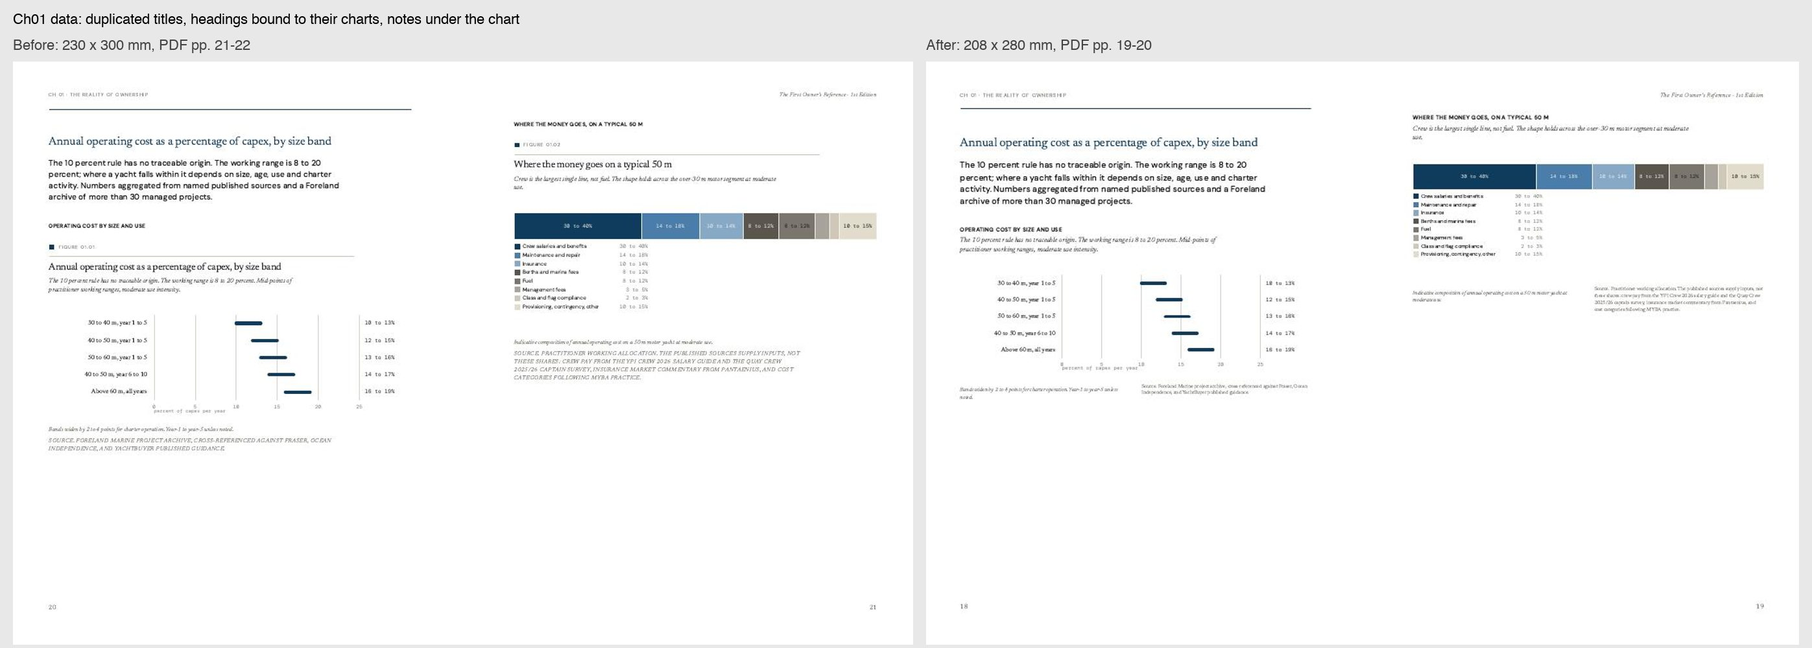
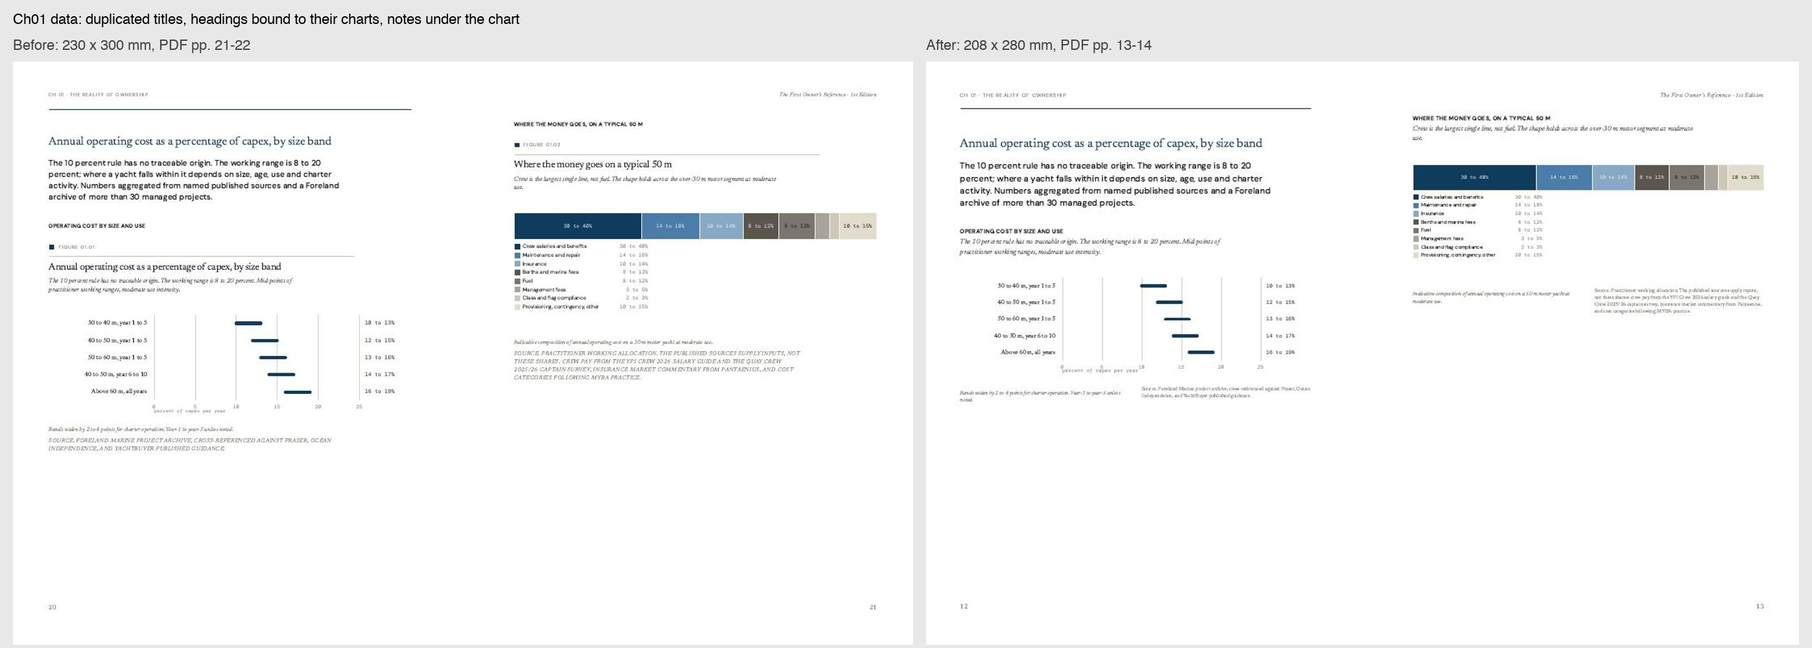
Print: front matter recomposed at true scale, one page each; thirteen pages to seven; registers and comparisons updated

diff --git a/app/print/print.css b/app/print/print.css
@@ -3431,3 +3431,95 @@ body {
   color: var(--colour-soft);
   margin: 1mm 0 6mm 0;
 }
+
+/* ===========================================================
+   FRONT MATTER at 208 x 280mm (14 November 2026)
+   These pages were sized while the book printed at 70 per cent, so every
+   size here read about a third smaller on paper than it was set. At true
+   scale the title page, imprint, letter, contents and contributors each
+   overflowed onto a second page. Reset to the body type system so each
+   is one composed page.
+   =========================================================== */
+
+/* Title page */
+.title-page { padding-top: 12mm; }
+.title-page__edition { font-size: 7pt; margin-bottom: 10mm; }
+.title-page__title { font-size: 40pt; line-height: 1.04; margin-bottom: 7mm; }
+.title-page__strap { font-size: 12pt; line-height: 1.45; margin-bottom: 12mm; max-width: 130mm; }
+.title-page__frame { margin-bottom: 10mm; padding-top: 3mm; }
+.title-page__frame-body { font-size: 9.25pt; line-height: 13.25pt; max-width: 130mm; }
+.title-page__foot { padding-top: 4mm; }
+.title-page__foot-label { font-size: 6.5pt; margin-bottom: 1mm; }
+.title-page__foot-value { font-size: 9pt; }
+.title-page__sections { margin-top: 10mm; padding-top: 5mm; }
+.title-page__sections-list li { margin-bottom: 2.5mm; grid-template-columns: 8mm 1fr; }
+.title-page__sections-num { font-size: 7.5pt; }
+.title-page__sections-title { font-size: 9pt; line-height: 1.3; }
+
+/* Imprint */
+.imprint { padding-top: 0; font-size: 7.5pt; line-height: 10.5pt; }
+.imprint__title { font-size: 20pt; line-height: 1.1; margin-bottom: 6mm; }
+.imprint__cols { column-gap: 5mm; margin-bottom: 0; }
+.imprint__masthead { margin-top: 7mm; padding-top: 4mm; }
+.imprint__masthead-block { margin-bottom: 4mm; }
+.imprint__masthead-label { font-size: 6.5pt; margin-bottom: 1mm; }
+.imprint__masthead-name { font-size: 8.5pt; line-height: 1.3; margin-bottom: 0.5mm; }
+.imprint__masthead-role { font-size: 7pt; line-height: 1.3; margin-bottom: 1mm; }
+.imprint__note { margin-top: 6mm; padding-top: 4mm; }
+.imprint__note-label { font-size: 9pt; line-height: 12pt; margin-bottom: 2mm; }
+.imprint__note-cols { column-gap: 5mm; font-size: 7.5pt; line-height: 10.5pt; }
+
+/* Editors' letter */
+.editors-letter { padding-top: 0; }
+.editors-letter__title { font-size: 26pt; line-height: 1.08; margin-bottom: 7mm; text-wrap: balance; }
+.editors-letter__body { column-gap: 7mm; font-size: 9.25pt; line-height: 13.25pt; margin-bottom: 4mm; }
+.editors-letter__body p { text-indent: 4mm; }
+.editors-letter__body p:first-child {
+  column-span: all;
+  font-size: 12pt;
+  line-height: 16.5pt;
+  margin-bottom: 5mm;
+  max-width: 140mm;
+}
+.editors-letter__signature { margin-top: 4mm; font-size: 9.25pt; }
+.editors-letter__keys { margin-top: 7mm; padding-top: 4mm; }
+.editors-letter__keys-label { font-size: 9pt; line-height: 12pt; margin-bottom: 3mm; }
+.editors-letter__keys-list { row-gap: 4mm; column-gap: 7mm; }
+.editors-letter__keys-list li { grid-template-columns: 7mm 1fr; gap: 2mm; }
+.editors-letter__keys-list li span { font-size: 11pt; }
+.editors-letter__keys-list li p { font-size: 8pt; line-height: 11pt; }
+
+/* Contents: one page, on whichever side it falls. */
+.contents-page { padding-top: 0; page-break-before: always; break-before: page; }
+.contents-page__title { font-size: 26pt; margin-bottom: 1mm; }
+.contents-list__item { grid-template-columns: 13mm 1fr 10mm; padding: 2.2mm 0; }
+.contents-list__num { font-size: 7.5pt; padding-top: 1pt; }
+.contents-list__title { font-size: 10.5pt; line-height: 1.2; }
+.contents-list__standfirst { font-size: 7.5pt; line-height: 1.35; }
+.contents-list__folio { font-size: 8pt; padding-top: 1pt; }
+
+/* Contributors */
+.contributors-page { padding-top: 0; }
+.contributors-page__title { font-size: 26pt; margin-bottom: 1mm; }
+.contributors-page__strap { font-size: 9.25pt; line-height: 13.25pt; margin-bottom: 7mm; max-width: 140mm; }
+.contributors-grid { gap: 5mm 10mm; }
+.contributor-entry { padding-top: 2.5mm; }
+.contributor-entry__chapter { font-size: 6.5pt; margin-bottom: 1mm; }
+.contributor-entry__name { font-size: 11pt; margin-bottom: 0.5mm; }
+.contributor-entry__role { font-size: 7.5pt; line-height: 1.35; }
+.contributors-page__note { margin-top: 6mm; padding-top: 3mm; font-size: 7.5pt; line-height: 1.45; }
+/* Letter keys in one row of four, so the letter and its reading notes
+   fit one page; contents rows tightened to hold all thirteen entries. */
+.editors-letter__keys-list { grid-template-columns: repeat(4, 1fr); column-gap: 5mm; }
+.editors-letter__keys-list li { grid-template-columns: 1fr; gap: 1mm; }
+.editors-letter__title { margin-bottom: 5mm; }
+.contents-list__item { padding: 1.5mm 0; }
+.contents-list__standfirst { line-height: 1.3; }
+.editors-letter__body { column-count: 3; column-gap: 6mm; column-fill: balance; }
+.editors-letter__body p { hyphens: auto; -webkit-hyphens: auto; text-align: left; }
+.editors-letter__body p { font-size: 9.25pt; line-height: 13.25pt; }
+.editors-letter__body p:first-child { font-size: 12pt; line-height: 16.5pt; }
+.editors-letter__body { column-count: 2; column-gap: 7mm; }
+.editors-letter__body p { text-align: justify; }
+.editors-letter__body p { margin: 0; }
+.editors-letter__body p:first-child { margin-bottom: 5mm; }

diff --git a/print/revision-2/change-register.md b/print/revision-2/change-register.md
@@ -1,6 +1,6 @@
 # Change register, second layout revision
 
-Against the design agent brief of 14 November 2026. "Before" pages are PDF pages of the 208-page proof the brief was written against (230 × 300 mm, commit c9d8191, cover = p. 1). "After" pages are PDF pages of the revised proof (208 × 280 mm, 185 pages with cover), `print/1st-edition/firstownersreference-1st-edition-proof.pdf`. Representative spreads are in `comparisons/`.
+Against the design agent brief of 14 November 2026. "Before" pages are PDF pages of the 208-page proof the brief was written against (230 × 300 mm, commit c9d8191, cover = p. 1). "After" pages are PDF pages of the revised proof (208 × 280 mm, 181 pages with cover), `print/1st-edition/firstownersreference-1st-edition-proof.pdf`. Representative spreads are in `comparisons/`.
 
 No copy, figure, chart value, table, reference or disclosure was changed in this pass. The last column says whether the change needs editorial approval.
 
@@ -10,7 +10,7 @@ No copy, figure, chart value, table, reference or disclosure was changed in this
 |---|---|---|---|---|
 | Whole book | Trim 230 × 300 mm in the brief; 208 × 280 mm confirmed by Jack on 14 November | Built at 208 × 280 mm, 3 mm bleed, type area 172 × 238 mm, inner margin 22 mm, outer 14 mm | Whole book | Decided |
 | Whole book | Proofs from May to November printed at about 70 per cent: one unbreakable URL in the sources was wider than the page and Chrome shrank every page to fit | Sources cited by domain only; the build now refuses to print if anything is wider than the type area | Whole book | Decided |
-| Whole book | 208 pp | 184-page block, 185 with cover; the press block is 184 pages, 23 sections of eight, with no padding. Every page of content retained, including all data sections and the index | Whole book | None |
+| Whole book | 208 pp | 180-page block, 181 with cover; the press block is padded to 184 pages, 23 sections of eight, with four blank pages at the end. Every page of content retained, including all data sections and the index | Whole book | None |
 
 ## Composition and rhythm (brief section 3)
 
@@ -21,8 +21,8 @@ No copy, figure, chart value, table, reference or disclosure was changed in this
 | Essays | Small photographs dropped between paragraphs at a fixed cadence | One picture across both columns per essay, placed before a crosshead and sized by the build to the space left on its page | All essays | None |
 | 25–26, 39–40, 67–68, 113–114 | A picture at the foot of each case jumped onto a page of its own and forced a blank page before the next opener | No picture after the case. The chapter card closes the chapter, followed by a blank page only where the next opener needs it | End of each chapter | None |
 | Chapter ends | Two mostly empty close pages per chapter (a picture page and an at-a-glance page) | One card at the foot of the case: sections in the chapter, about the cases, read next. The copy is unchanged | End of each chapter | None |
-| 21–24 | Data pages each carried one chart and were otherwise empty | Charts held to 92 mm, method notes set in two columns under the chart, chart headings bound to their charts. Two charts now share a page where they fit | 19–22 | None |
-| 23 | A four-row table split, leaving one row on the next page | Tables of eight rows or fewer are kept whole; longer tables break between rows with the head repeated | 21 | None |
+| 21–24 | Data pages each carried one chart and were otherwise empty | Charts held to 92 mm, method notes set in two columns under the chart, chart headings bound to their charts. Two charts now share a page where they fit | 13–16 | None |
+| 23 | A four-row table split, leaving one row on the next page | Tables of eight rows or fewer are kept whole; longer tables break between rows with the head repeated | 15 | None |
 
 ## Typography (brief section 4)
 
@@ -32,9 +32,9 @@ No copy, figure, chart value, table, reference or disclosure was changed in this
 | All running text | Loose justification and hyphen ladders in narrow columns | `text-wrap: pretty`, hyphenation no closer than three letters from either end of a seven-letter word, no more than two hyphens in a row, a small negative word-space allowance | All | None |
 | All | Paragraph indents and spacing differed between essays, cases and interviews | 4 mm indent, no space between paragraphs, flush after a heading or pull quote, in every family | All | None |
 | All | Crossheads in 19 pt serif with 18 pt above | DM Sans 8 pt bold capitals, a full line above and a third of a line below, kept with the next line | All | None |
-| 26, 102 (case openers) | Case title sat on the marine rule; "The spec change in month / 18." | 9 mm of air under the rule on every case and interview; balanced title lines | 23, 89 | None |
-| 26 | Case facts set as spaced capital labels over values | One centred run-in line, labels in bold | 23 and all cases | None |
-| Interviews | Questions in the same face as the answers | Questions in DM Sans 9 pt semi-bold, marine; answers at body size | 75 and all interviews | None |
+| 26, 102 (case openers) | Case title sat on the marine rule; "The spec change in month / 18." | 9 mm of air under the rule on every case and interview; balanced title lines | 17, 83 | None |
+| 26 | Case facts set as spaced capital labels over values | One centred run-in line, labels in bold | 17 and all cases | None |
+| Interviews | Questions in the same face as the answers | Questions in DM Sans 9 pt semi-bold, marine; answers at body size | 69 and all interviews | None |
 | Pull quotes | Different sizes in essays and cases | One treatment: Newsreader italic 15 / 19 pt, 1.5 pt rule | All | None |
 | Captions and sources | Source lines in 6.8 pt italic capitals | 7 pt roman in sentence case; captions 7.5 pt | All | None |
 | Throughout | Eyebrow labels above headings: "Chapter 05", "Guest opinion", "Note", "Table 01.02", "Figure 01.01", "A — Reference" and others | Removed. Where the label was the page's real name it became the heading (Contents, Contributors) | All | Decided |
@@ -43,17 +43,17 @@ No copy, figure, chart value, table, reference or disclosure was changed in this
 
 | Before | Issue | Adjustment | After | Approval |
 |---|---|---|---|---|
-| 21 | Spread title and the chart title printed one above the other, word for word | Where a chart's title or standfirst repeats the spread title, the spread standfirst or the crosshead above it, the chart's copy is suppressed in print. The text still prints once | 19 | None |
-| 22 | Crosshead "Where the money goes, on a typical 50 m" and chart title "Where the money goes on a typical 50 m" | Same rule, comparing words and ignoring punctuation | 19 | None |
+| 21 | Spread title and the chart title printed one above the other, word for word | Where a chart's title or standfirst repeats the spread title, the spread standfirst or the crosshead above it, the chart's copy is suppressed in print. The text still prints once | 13 | None |
+| 22 | Crosshead "Where the money goes, on a typical 50 m" and chart title "Where the money goes on a typical 50 m" | Same rule, comparing words and ignoring punctuation | 13 | None |
 | All charts | Axis and value labels as small as 6.4 pt (10 units on a 760-unit chart printed at 172 mm) | Labels below 11 units raised to 11 (7 pt) in print. The web charts are unchanged | All | None |
-| 23 | Legend, notes and source in one long italic block under the depreciation chart | Notes and source in two columns under the chart, source in roman | 21 | None |
+| 23 | Legend, notes and source in one long italic block under the depreciation chart | Notes and source in two columns under the chart, source in roman | 15 | None |
 | All | Tailwind spacing from the web frame (6 mm between title, chart and notes) | 3 mm in print | All | None |
 
 ## Chapter architecture (brief section 6)
 
 | Before | Issue | Adjustment | After | Approval |
 |---|---|---|---|---|
-| 44 | Chapter 03 opened out of sequence with the other chapters | Every opener now falls on a left-hand page with the essay opening on the facing right-hand page; the build verifies parity and inserts a blank page where needed (six in the book: before ch01, ch02, ch03, ch05, ch06 and ch09) | 15, 27, 39, 53, 67, 93, 113, 137, 155 | None |
+| 44 | Chapter 03 opened out of sequence with the other chapters | Every opener now falls on a left-hand page with the essay opening on the facing right-hand page; the build verifies parity and inserts a blank page where needed (six in the book: before ch02, ch03, ch05, ch06, ch08 and ch09) | 9, 21, 33, 47, 61, 87, 107, 133, 151 | None |
 | Openers | "Chapter 05" label above the 05 numeral | Removed; numeral, title and standfirst unchanged | All openers | Decided |
 | Build | Page numbering never settled: picture fitting and opener spacers kept moving each other | Pictures are fitted on the first three passes and then held; the chapter spacers and contents folios now settle by pass 4 (a few foot-picture heights still adjust by a millimetre or two after that, which moves no page) | — | None |
 
@@ -61,10 +61,11 @@ No copy, figure, chart value, table, reference or disclosure was changed in this
 
 | Before | Issue | Adjustment | After | Approval |
 |---|---|---|---|---|
-| 10 | "Contents" label over the heading "Nine chapters." | Heading is "Contents"; "Nine chapters." follows as a subtitle | 10 | Decided |
-| 12 | "Contributors" label over "Voluntary, named, and disclosed." | Heading is "Contributors"; the line follows as a subtitle | 12 | Decided |
-| 4, 8, 6 | Eyebrows "In this edition", "From the editors", "Imprint & Masthead", "The publisher's frame" | Removed | 4–8 | Decided |
-| Contents | Folios | Generated from the printed page map on every build | 10–11 | None |
+| 2–14 | Front matter sized while the book printed at 70 per cent: at true scale the title page, imprint, letter, contents and contributors each ran onto a second page, and the letter was set at 14.5 pt with a 19 pt opening | Reset to the body type system and recomposed so each is one page: half-title, frontispiece and title page, imprint and editors' letter, contents and contributors. Letter body 9.25 pt in two columns, reading notes in one row of four. Thirteen pages became seven | 2–8 | None |
+| 10 | "Contents" label over the heading "Nine chapters." | Heading is "Contents"; "Nine chapters." follows as a subtitle | 7 | Decided |
+| 12 | "Contributors" label over "Voluntary, named, and disclosed." | Heading is "Contributors"; the line follows as a subtitle | 8 | Decided |
+| 4, 8, 6 | Eyebrows "In this edition", "From the editors", "Imprint & Masthead", "The publisher's frame" | Removed | 4–6 | Decided |
+| Contents | Folios | Generated from the printed page map on every build; checked against the printed openers | 7 | None |
 
 ## Photography framework (brief section 8)
 

diff --git a/print/revision-2/exceptions-register.md b/print/revision-2/exceptions-register.md
@@ -4,13 +4,13 @@ Problems found during the layout pass that cannot be resolved without changing a
 
 | No. | Page | Issue | Options | Decision |
 |---|---|---|---|---|
-| E1 | 19–21, 32–35, 47–49, 60–62, 104–109, 128–133, 148–150 | **Tables dropped in print where a chart of the same data follows.** A rule from August ("one form per dataset") prints only the chart in thirteen places: ch01 (operating cost by size; where the money goes; depreciation), ch02 (wealth creation; order book; brokerage H1 2026), ch03 (who the buyer is; two commission scales), ch04 (VAT rates), ch06 (refit cost per metre), ch07 (captain pay), ch08 (operating cost 50 m; EU ETS exposure). Under the brief's content lock this is a removal of approved material. Where a table holds values or notes the chart does not show, the print loses them. | (a) Keep the rule, after an editor confirms each chart carries every value in its table. (b) Print table and chart together, about 6–8 pages. (c) Decide per chapter. | |
-| E2 | 47 (53) | **Ch03 data: the note repeats the introduction.** The boxed note under "Who the buyer is, and who advises them" restates the spread's standfirst nearly word for word ("Many first-time buyers reach this market through a family office…"). Layout cannot resolve it without cutting copy. | Cut the note, or rewrite one of the two. | |
-| E3 | 19–20 (22) | **Stacked cost-allocation bar for a 50 m yacht.** Each segment is a percentage range (crew 30 to 40, maintenance 14 to 18, and so on), drawn as a single 100 per cent bar. The ranges sum to 82–133 per cent, so the bar cannot show them truthfully; the segment widths are a hidden choice of midpoints. | Redraw as range bars (one row per cost line, the bar spanning the range), like figure 01.01. Substance unchanged, representation changed. | |
-| E4 | 21 (23) | **Depreciation chart.** The shaded band and the three source lines read as one forecast. The notes state the sources disagree and that "neither broker gives a figure after year five", but the chart extends no line past year five, so the point is not visible on the chart. | Label each line at its end with source and date; mark year five as the limit of published data. Representation only. | |
-| E5 | 75 and other interviews | **Interview biographies repeat the role line.** The printed introduction joins the contributor's role ("Secretary General, Superyacht Alliance…") with an intro that restates it ("Hein Velema is Secretary General of the Superyacht Alliance…"). Most pronounced for Velema, Maltby and Roberts. | Print the role line only above the name, or trim the intro's first sentence. | |
-| E6 | 4 and 10–11 | **Two chapter lists in the front matter.** The title page lists the nine chapters, and the contents page lists them again with standfirsts and folios. | Keep both; or drop the title-page list, which saves no page but quietens the title page. | |
-| E7 | 45, 58, 123, 146 | **Captain Pavlos Filippakis is interviewed in four chapters** (03, 04, 07, 08), about 2,500 words in all. Not a layout fault, but a reader of the book will meet the same voice four times. | Keep; merge into one interview; or keep one and move the others to the web edition. | |
-| E8 | 176–178 | **Printed index is the automatic working index**, labelled "(working)". It cannot be relied on for page references at this stage. | Commission an indexer against the final proof; or print it as it stands with the label. | |
-| E9 | 9 | **Contents carries the index as "Index (working)"** with a standfirst saying an indexer will re-set it. This text will be wrong once a decision on E8 is made. | Follows from E8. | |
-| E10 | Whole book | **Page count.** 184-page block (184 for press) against the 150–160 target set before the brief. The brief's content lock makes the target unreachable by layout alone; the remaining route is the editorial cut already listed (interviews capped at about 900 words, saving about 10 pages; essays 05–07 trimmed, about 5 pages). | Hold at 184, or approve the cuts. | |
+| E1 | 13–15, 26–29, 41–43, 54–56, 98–103, 122–127, 144–146 | **Tables dropped in print where a chart of the same data follows.** A rule from August ("one form per dataset") prints only the chart in thirteen places: ch01 (operating cost by size; where the money goes; depreciation), ch02 (wealth creation; order book; brokerage H1 2026), ch03 (who the buyer is; two commission scales), ch04 (VAT rates), ch06 (refit cost per metre), ch07 (captain pay), ch08 (operating cost 50 m; EU ETS exposure). Under the brief's content lock this is a removal of approved material. Where a table holds values or notes the chart does not show, the print loses them. | (a) Keep the rule, after an editor confirms each chart carries every value in its table. (b) Print table and chart together, about 6–8 pages. (c) Decide per chapter. | |
+| E2 | 41 (47) | **Ch03 data: the note repeats the introduction.** The boxed note under "Who the buyer is, and who advises them" restates the spread's standfirst nearly word for word ("Many first-time buyers reach this market through a family office…"). Layout cannot resolve it without cutting copy. | Cut the note, or rewrite one of the two. | |
+| E3 | 13–14 (16) | **Stacked cost-allocation bar for a 50 m yacht.** Each segment is a percentage range (crew 30 to 40, maintenance 14 to 18, and so on), drawn as a single 100 per cent bar. The ranges sum to 82–133 per cent, so the bar cannot show them truthfully; the segment widths are a hidden choice of midpoints. | Redraw as range bars (one row per cost line, the bar spanning the range), like figure 01.01. Substance unchanged, representation changed. | |
+| E4 | 15 (17) | **Depreciation chart.** The shaded band and the three source lines read as one forecast. The notes state the sources disagree and that "neither broker gives a figure after year five", but the chart extends no line past year five, so the point is not visible on the chart. | Label each line at its end with source and date; mark year five as the limit of published data. Representation only. | |
+| E5 | 69 and other interviews | **Interview biographies repeat the role line.** The printed introduction joins the contributor's role ("Secretary General, Superyacht Alliance…") with an intro that restates it ("Hein Velema is Secretary General of the Superyacht Alliance…"). Most pronounced for Velema, Maltby and Roberts. | Print the role line only above the name, or trim the intro's first sentence. | |
+| E6 | 4 and 7 | **Two chapter lists in the front matter.** The title page lists the nine chapters, and the contents page lists them again with standfirsts and folios. | Keep both; or drop the title-page list, which saves no page but quietens the title page. | |
+| E7 | 39, 52, 117, 142 | **Captain Pavlos Filippakis is interviewed in four chapters** (03, 04, 07, 08), about 2,500 words in all. Not a layout fault, but a reader of the book will meet the same voice four times. | Keep; merge into one interview; or keep one and move the others to the web edition. | |
+| E8 | 172–174 | **Printed index is the automatic working index**, labelled "(working)". It cannot be relied on for page references at this stage. | Commission an indexer against the final proof; or print it as it stands with the label. | |
+| E9 | 7 | **Contents carries the index as "Index (working)"** with a standfirst saying an indexer will re-set it. This text will be wrong once a decision on E8 is made. | Follows from E8. | |
+| E10 | Whole book | **Page count.** 180-page block (184 for press) against the 150–160 target set before the brief. The brief's content lock makes the target unreachable by layout alone; the remaining route is the editorial cut already listed (interviews capped at about 900 words, saving about 10 pages; essays 05–07 trimmed, about 5 pages). | Hold at 184, or approve the cuts. | |

diff --git a/print/revision-2/prepress-report.md b/print/revision-2/prepress-report.md
@@ -10,8 +10,8 @@ State of the press files on 14 November 2026 and what remains before the book ca
 | Bleed | 3 mm all edges; TrimBox, BleedBox and ArtBox stamped on every page | Some printers ask for 5 mm on casebound work |
 | Type area | 172 × 238 mm; head 20, foot 22, inner 22, outer 14 mm (trim) | Gutter loss for Smyth-sewn casebinding at 184 pp is normally 3–5 mm. 22 mm inner is safe; the binder should confirm |
 | Safe area | Nothing but full-bleed pictures within 6 mm of the trim | Confirm |
-| Extent | 184-page block, no padding needed (23 sections of eight) | Signature size (8, 16 or 32) decides the padding. At 16-page sections the block would pad to 192 |
-| Blank pages | Six blank pages inserted so every chapter opener falls on a left-hand page (before ch01, ch02, ch03, ch05, ch06 and ch09) | Confirm blank pages carry no folio or running head |
+| Extent | 180-page block; press block padded to 184 with four blank pages (23 sections of eight) | Signature size (8, 16 or 32) decides the padding. At 16-page sections the block would pad to 192 |
+| Blank pages | Six blank pages inserted so every chapter opener falls on a left-hand page (before ch02, ch03, ch05, ch06, ch08 and ch09) | Confirm blank pages carry no folio or running head |
 
 ## Fonts
 
@@ -58,7 +58,7 @@ The case artwork route (`/print-case`) still draws the 230 × 300 mm boards. It 
 
 ## Physical proofs (brief section 10)
 
-Print on the specified uncoated stock: chapter opener (p. 67, chapter 05), a dense essay spread (pp. 69–70), a data spread (pp. 19–20), and a photographic page (an opener verso). These are for the type size at 9.25 pt, the chart label floor at 7 pt and the marine on uncoated stock. They need a person and the printer.
+Print on the specified uncoated stock: chapter opener (p. 61, chapter 05), a dense essay spread (pp. 63–64), a data spread (pp. 13–14), and a photographic page (an opener verso). These are for the type size at 9.25 pt, the chart label floor at 7 pt and the marine on uncoated stock. They need a person and the printer.
 
 ## Build notes
 

diff --git a/print/revision-2/README.md b/print/revision-2/README.md
@@ -2,7 +2,7 @@
 
 Response to the design agent brief of 14 November 2026 ("Second Layout Revision"), built at the 208 × 280 mm trim Jack confirmed the same day.
 
-- Revised proof: `print/1st-edition/firstownersreference-1st-edition-proof.pdf` (185 pp with cover; press block 184 pp). PDFs are not committed; rebuild with `node scripts/build-print.mjs`.
+- Revised proof: `print/1st-edition/firstownersreference-1st-edition-proof.pdf` (181 pp with cover; press block 184 pp). PDFs are not committed; rebuild with `node scripts/build-print.mjs`.
 - `comparisons/`: eight before-and-after spreads.
 - `change-register.md`: every adjustment, original and revised page, and whether it needs approval.
 - `exceptions-register.md`: ten problems that need an editorial decision.
